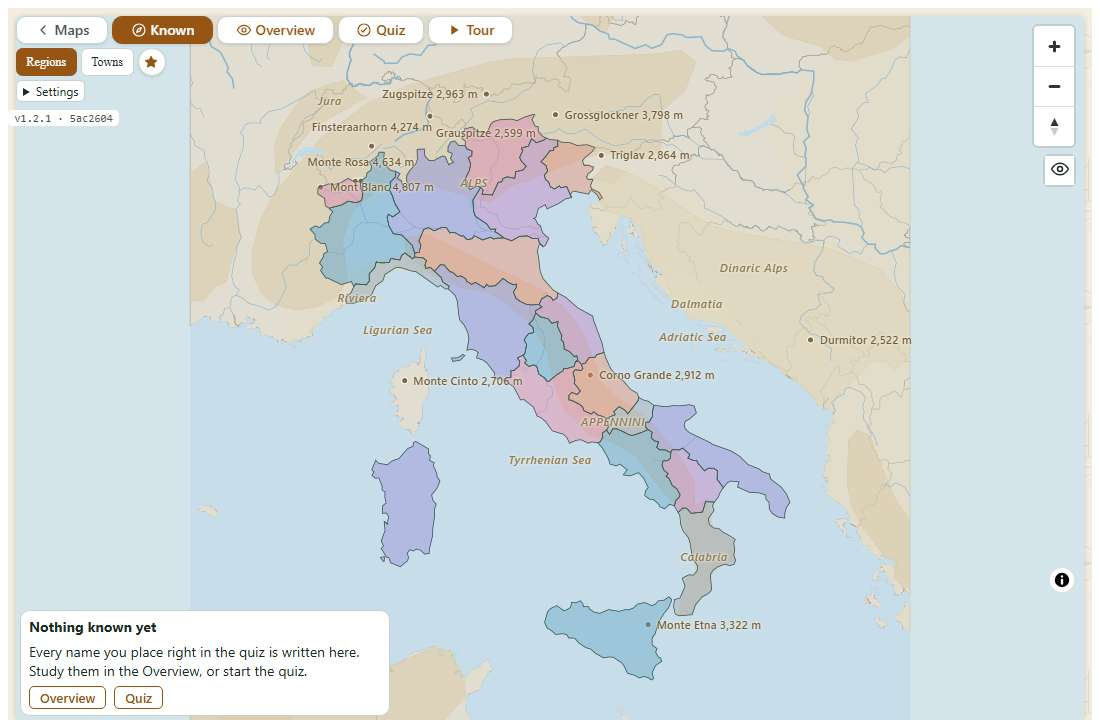
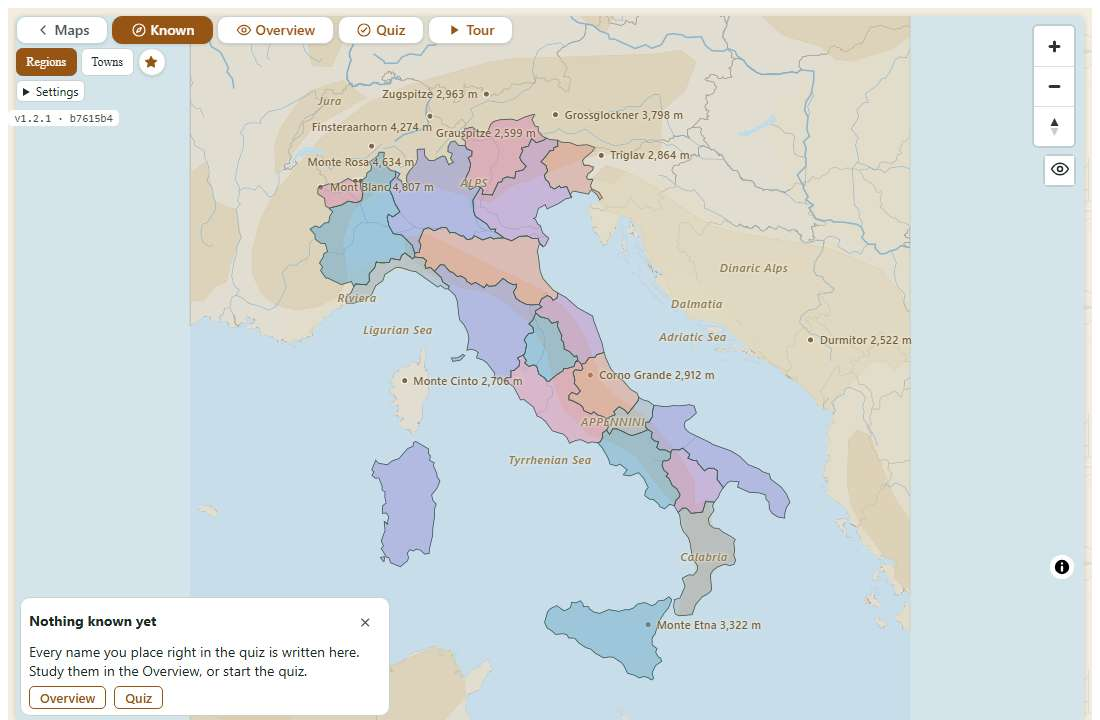
fix: let players dismiss the empty Known-map notice
Keep the card closed for the current view, free its map-credit inset and preserve learning progress. Add accessible localized close labels and update the manual illustration.

Fixes #307

Changed region(s): [[0.0, 0.825, 0.3709, 0.8861], [0.9582, 0.7639, 0.9891, 0.825], [0.0618, 0.1528, 0.0927, 0.1833]]

diff --git a/app/src/lib/MapView.svelte b/app/src/lib/MapView.svelte
@@ -64,6 +64,8 @@
 	let anyShown = $state(false);
 	/** Whether the saved progress has been read, so an empty map really is one. */
 	let loaded = $state(false);
+	/** An introduction, dismissible for this Known-view visit. */
+	let emptyNoticeDismissed = $state(false);
 	/** Whether any name has an earned level, i.e. whether there is anything to reset. */
 	const anyEarned = $derived(Object.values(streaks).some((level) => level > 0));
 	const mapTitle = $derived(mapDisplayName(mapId) ?? mapDef?.name ?? mapId);
@@ -378,10 +380,18 @@
 				</button>
 			{/if}
 		</div>
-	{:else if loaded && !anyEarned}
+	{:else if loaded && !anyEarned && !emptyNoticeDismissed}
 		<!-- A map never played says what this screen is for (#269). -->
 		<div class="legend empty" bind:this={legendEl} data-testid="known-empty">
-			<strong>{t('known.emptyTitle')}</strong>
+			<div class="empty-heading">
+				<strong>{t('known.emptyTitle')}</strong>
+				<button
+					type="button"
+					class="empty-close"
+					aria-label={t('known.dismissEmpty')}
+					onclick={() => (emptyNoticeDismissed = true)}><span aria-hidden="true">×</span></button
+				>
+			</div>
 			<p>{t('known.emptyBody')}</p>
 			<div class="empty-actions">
 				<a class="clear-btn" href={resolve('/map/[mapId]/overview', { mapId })}
@@ -495,6 +505,35 @@
 		max-width: min(22rem, calc(100% - 1.5rem));
 		color: var(--gc-text, #1f3d2a);
 		font-size: 0.875rem;
+	}
+	.empty-heading {
+		display: flex;
+		align-items: center;
+		justify-content: space-between;
+		gap: 0.5rem;
+		width: 100%;
+	}
+	.empty-close {
+		flex: 0 0 auto;
+		width: 2rem;
+		height: 2rem;
+		padding: 0;
+		border: none;
+		border-radius: 0.3rem;
+		background: transparent;
+		color: var(--gc-muted, #6b7770);
+		font: inherit;
+		font-size: 1.25rem;
+		line-height: 1;
+		cursor: pointer;
+	}
+	.empty-close:hover {
+		background: var(--gc-hover, rgba(17, 24, 21, 0.07));
+		color: var(--gc-text, #2b332e);
+	}
+	.empty-close:focus-visible {
+		outline: 2px solid var(--gc-accent, #b5691f);
+		outline-offset: 1px;
 	}
 	.legend.empty p {
 		margin: 0;

diff --git a/app/src/lib/i18n.svelte.ts b/app/src/lib/i18n.svelte.ts
@@ -115,6 +115,7 @@ export type TranslationKey =
 	| 'known.resetFailed'
 	| 'known.emptyTitle'
 	| 'known.emptyBody'
+	| 'known.dismissEmpty'
 	| 'nav.loading'
 	| 'nav.detailedMaps'
 	| 'nav.hideDetailedMap'
@@ -365,6 +366,7 @@ const en: Dictionary = {
 	'known.resetDone': 'Your progress on {map} is reset.',
 	'known.resetFailed': 'The reset did not finish. Try again.',
 	'known.emptyTitle': 'Nothing known yet',
+	'known.dismissEmpty': 'Close this notice',
 	'known.emptyBody':
 		'Every name you place right in the quiz is written here. Study them in the Overview, or start the quiz.',
 	'nav.loading': 'Loading…',
@@ -635,6 +637,7 @@ const de: Dictionary = {
 	'known.resetDone': 'Dein Fortschritt auf {map} ist zurückgesetzt.',
 	'known.resetFailed': 'Das Zurücksetzen hat nicht geklappt. Versuch es noch einmal.',
 	'known.emptyTitle': 'Noch nichts gewusst',
+	'known.dismissEmpty': 'Hinweis schließen',
 	'known.emptyBody':
 		'Jeder Name, den du im Quiz richtig platzierst, steht dann hier. Lerne sie in der Übersicht oder starte das Quiz.',
 	'nav.loading': 'Lädt…',
@@ -911,6 +914,7 @@ const it: Dictionary = {
 	'known.resetDone': 'I tuoi progressi su {map} sono stati azzerati.',
 	'known.resetFailed': "L'azzeramento non è riuscito. Riprova.",
 	'known.emptyTitle': 'Ancora niente di imparato',
+	'known.dismissEmpty': 'Chiudi questo avviso',
 	'known.emptyBody':
 		'Ogni nome che posizioni giusto nel quiz viene scritto qui. Studiali nella Panoramica o inizia il quiz.',
 	'nav.loading': 'Caricamento…',

diff --git a/ROADMAP.md b/ROADMAP.md
@@ -1,5 +1,7 @@
 # Geoclick — Roadmap
 
+- **v1.2.1 owner-testing fix (#307):** make the empty Known-map notice dismissible with a localized, keyboard/touch-accessible × button. The agreed b7615b4 candidate remains untagged while this ordinary fix PR is tested, approved and reviewed on its resulting SHA.
+
 - **v1.2.1 release preparation (2026-10-31):** desktop browser-style Ctrl zoom (#295) and permanent continent colors with progress in counts/gold outlines (#296) merged in [PR #297](https://github.com/diegoami/Geoclick2027/pull/297). Version/changelog preparation is underway; candidate merge, milestone review and release-installer checks remain pending. The published downloads are still v1.2.0. Visible main-window widget-zoom controls (#298) are filed but not implemented and remain outside this patch.
 
 - **Firebase feasibility spike (2026-10-31, [#301](https://github.com/diegoami/Geoclick2027/issues/301)):** isolated Auth/Firestore emulator checks and Chromium Google-popup simulation pass; cross-client sample sharing and access rules work, but snapshot sync demonstrably loses a newer reset after an offline write. The owner tested real Google sign-in, sample cloud save/read and same-account sharing in another browser profile; an independent anonymous cloud read remains denied after rule publication. Browser feasibility is established; native login and production merge design remain follow-ups. See [the reproducible spike and results](spikes/firebase/README.md). Production remains local-first; v1.2.1 scope is unchanged.

diff --git a/docs/USER_MANUAL.de.md b/docs/USER_MANUAL.de.md
@@ -113,7 +113,7 @@ Klicke oder tippe auf einen Ort, um seinen Namen hinzuzufügen; noch einmal nimm
 
 Wenn Informationen verfügbar sind, öffnet die Auswahl auch eine Ortskarte mit Wissenswertem. Auf einer Städtekarte tippst du auf den Punkt. Das erneute Ausblenden des Namens schließt die Ortskarte. In dieser Ansicht gibt es keine Bewertung.
 
-Auf einer nie gespielten Karte erscheint eine kleine Karte **Noch nichts gewusst** mit den Knöpfen **Übersicht** und **Quiz**.
+Auf einer nie gespielten Karte erscheint eine kleine Karte **Noch nichts gewusst** mit den Knöpfen **Übersicht** und **Quiz**. Mit **×** schließt du den Hinweis für diesen Besuch, damit die Karte frei bleibt.
 
 Sobald du auf der Karte etwas erreicht hast, steht in der Legende auch **Fortschritt zurücksetzen**. Ein Dialog fragt nach: „Deinen Fortschritt auf Italy — Regionen zurücksetzen?“. **Abbrechen** ändert nichts; **Ja, zurücksetzen** macht alle Namen dieser Karte wieder unbekannt und löscht auch die gewählten Namen und eine halb gespielte Runde. Deine anderen Karten, deine Favoriten und dein letztes Ergebnis bleiben. Das ist etwas anderes als **Zurücksetzen** in der Legende, das nur die gewählten Namen entfernt.
 

diff --git a/docs/USER_MANUAL.it.md b/docs/USER_MANUAL.it.md
@@ -113,7 +113,7 @@ Tocca o clicca un luogo per aggiungere il suo nome; ripeti per nasconderlo. Puoi
 
 Scegliere un luogo apre anche la sua scheda, quando ci sono informazioni disponibili. Nelle mappe delle città tocchi il punto. Nascondere di nuovo il nome chiude la scheda. Questa schermata non assegna punteggi.
 
-Su una mappa mai giocata compare un piccolo riquadro **Ancora niente di imparato**, con i pulsanti **Panoramica** e **Quiz**.
+Su una mappa mai giocata compare un piccolo riquadro **Ancora niente di imparato**, con i pulsanti **Panoramica** e **Quiz**. Chiudi l’avviso con **×** per liberare la mappa: resta chiuso per questa visita.
 
 Quando hai guadagnato qualcosa sulla mappa, la legenda contiene anche **Azzera i progressi**. Una finestra chiede conferma: «Azzerare i tuoi progressi su Italy — Regioni?». **Annulla** lascia tutto com’è; **Sì, azzera** riporta ogni nome di questa mappa a sconosciuto e cancella anche i nomi scelti e una prova lasciata a metà. Le altre mappe, i preferiti e l’ultimo punteggio restano. Il pulsante **Azzera** della legenda, invece, toglie soltanto i nomi scelti.
 

diff --git a/CHANGELOG.md b/CHANGELOG.md
@@ -13,7 +13,9 @@ For players:
 
 - **Desktop page zoom:** Ctrl + / Ctrl − and Ctrl+wheel are enabled in the Windows app. They resize the whole interface, including buttons and icons. Appearance text size and the map's geographic zoom remain separate.
 - **Steady world colors:** countries retain their continent color before and after practice, including when no names are Known. Progress stays visible in counts and gold completion outlines; the green progress-fill legend is removed.
+- **Close the empty Known hint:** the “Nothing known yet” card now has an accessible × button, so you can dismiss it and uncover the map for the current visit.
 - **Updated English, German and Italian manuals and home-screen illustrations** explain the separate zoom settings and the world map's colors.
+
 Under the hood:
 
 - Fixes #295 and implements the owner-approved color choice in #296, merged in [PR #297](https://github.com/diegoami/Geoclick2027/pull/297).

diff --git a/docs/USER_MANUAL.md b/docs/USER_MANUAL.md
@@ -406,7 +406,7 @@ what you actually know. Nothing here is scored. On a towns map, tap a town's dot
 
 **A map you have never played** shows a small card, **"Nothing known yet"**,
 with an **Overview** button to study the names and a **Quiz** button to start
-playing.
+playing. Close the card with **×** to free the map; it stays closed for this visit.
 
 ![A new map: Nothing known yet, with Overview and Quiz buttons](manual/known-empty.jpg)
 
